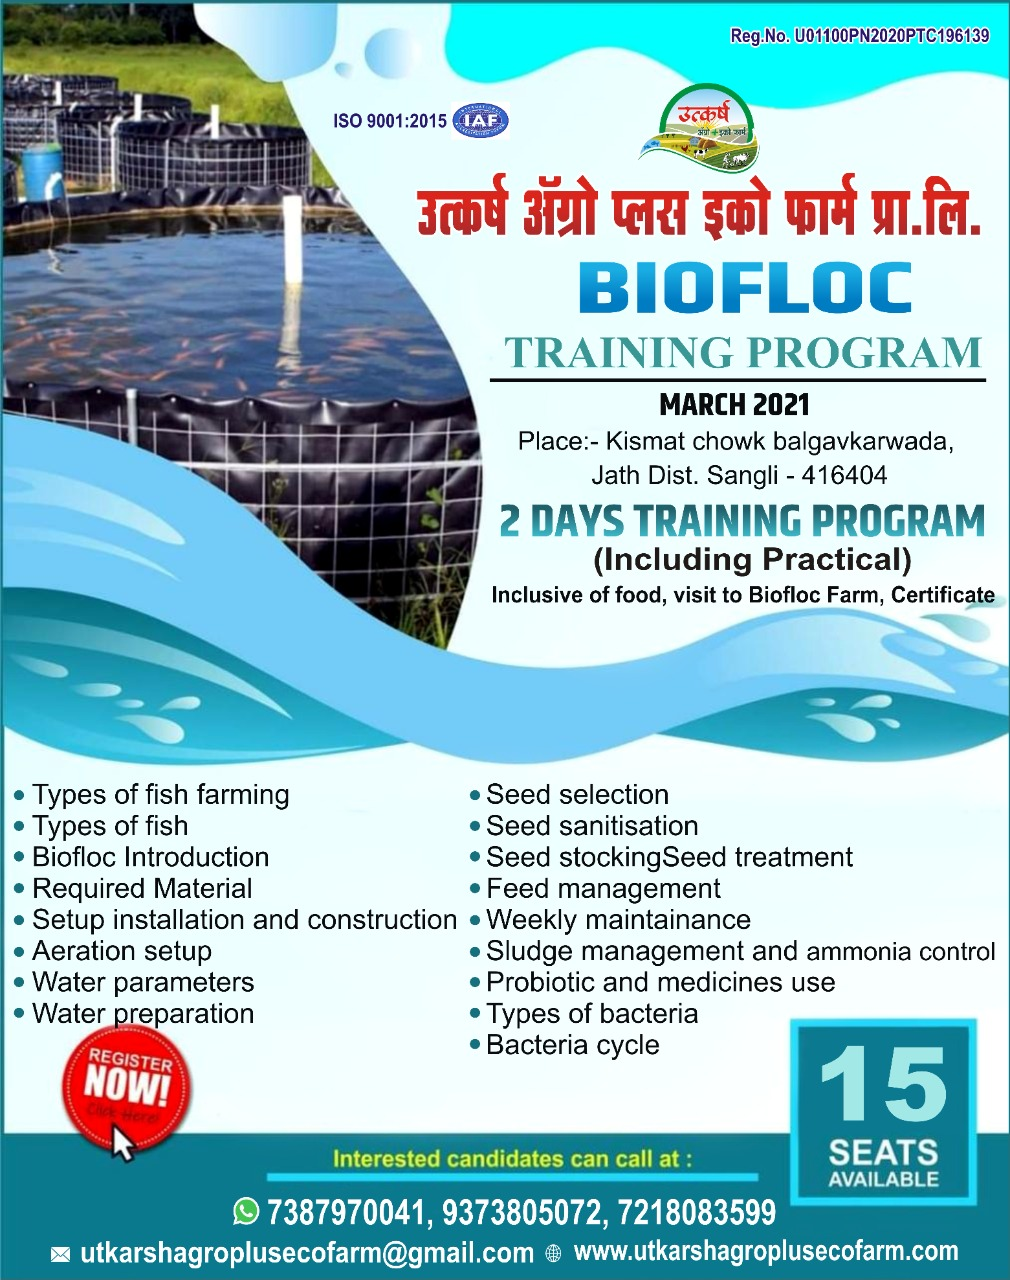
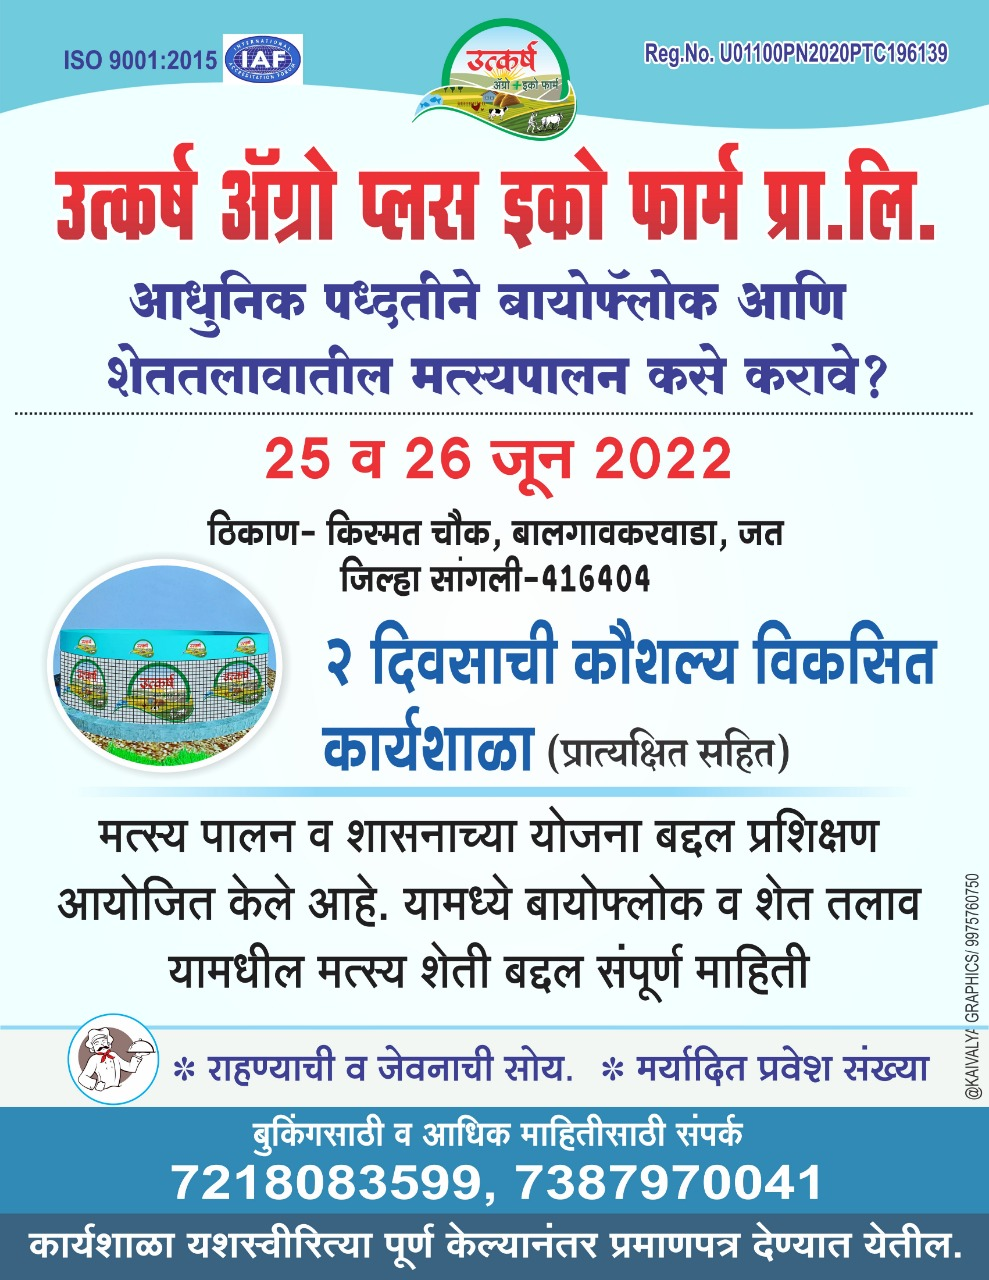
June training update

diff --git a/index.html b/index.html
@@ -270,17 +270,11 @@
             <img src="/images/home/Training.jpeg" class="card-img-top" alt="..." />
             <div class="card-body">
               <h5 class="card-title">Biofloc Training Program</h5>
-              <p class="subtitle text-muted">March 2021</p>
+              <p class="subtitle text-muted">25 & 26 June 2022</p>
               <p class="card-text">2 Days Training Program (Including Practical)</p>
               <a class="btn btn-primary btn-block" href="https://wa.me/+917387970041">
                 Contact on Whatsapp &nbsp;
                 <!-- <i class="fa fa-whatsapp" href="https://wa.me/917387970041" target="_blank"></i> -->
-              </a>
-              <a
-                href="https://drive.google.com/file/d/1j5oUTKx6NWaD2YlfP57O5bKTinxWtexN/view"
-                class="btn btn-success btn-block"
-              >
-                Application Form
               </a>
             </div>
           </div>
